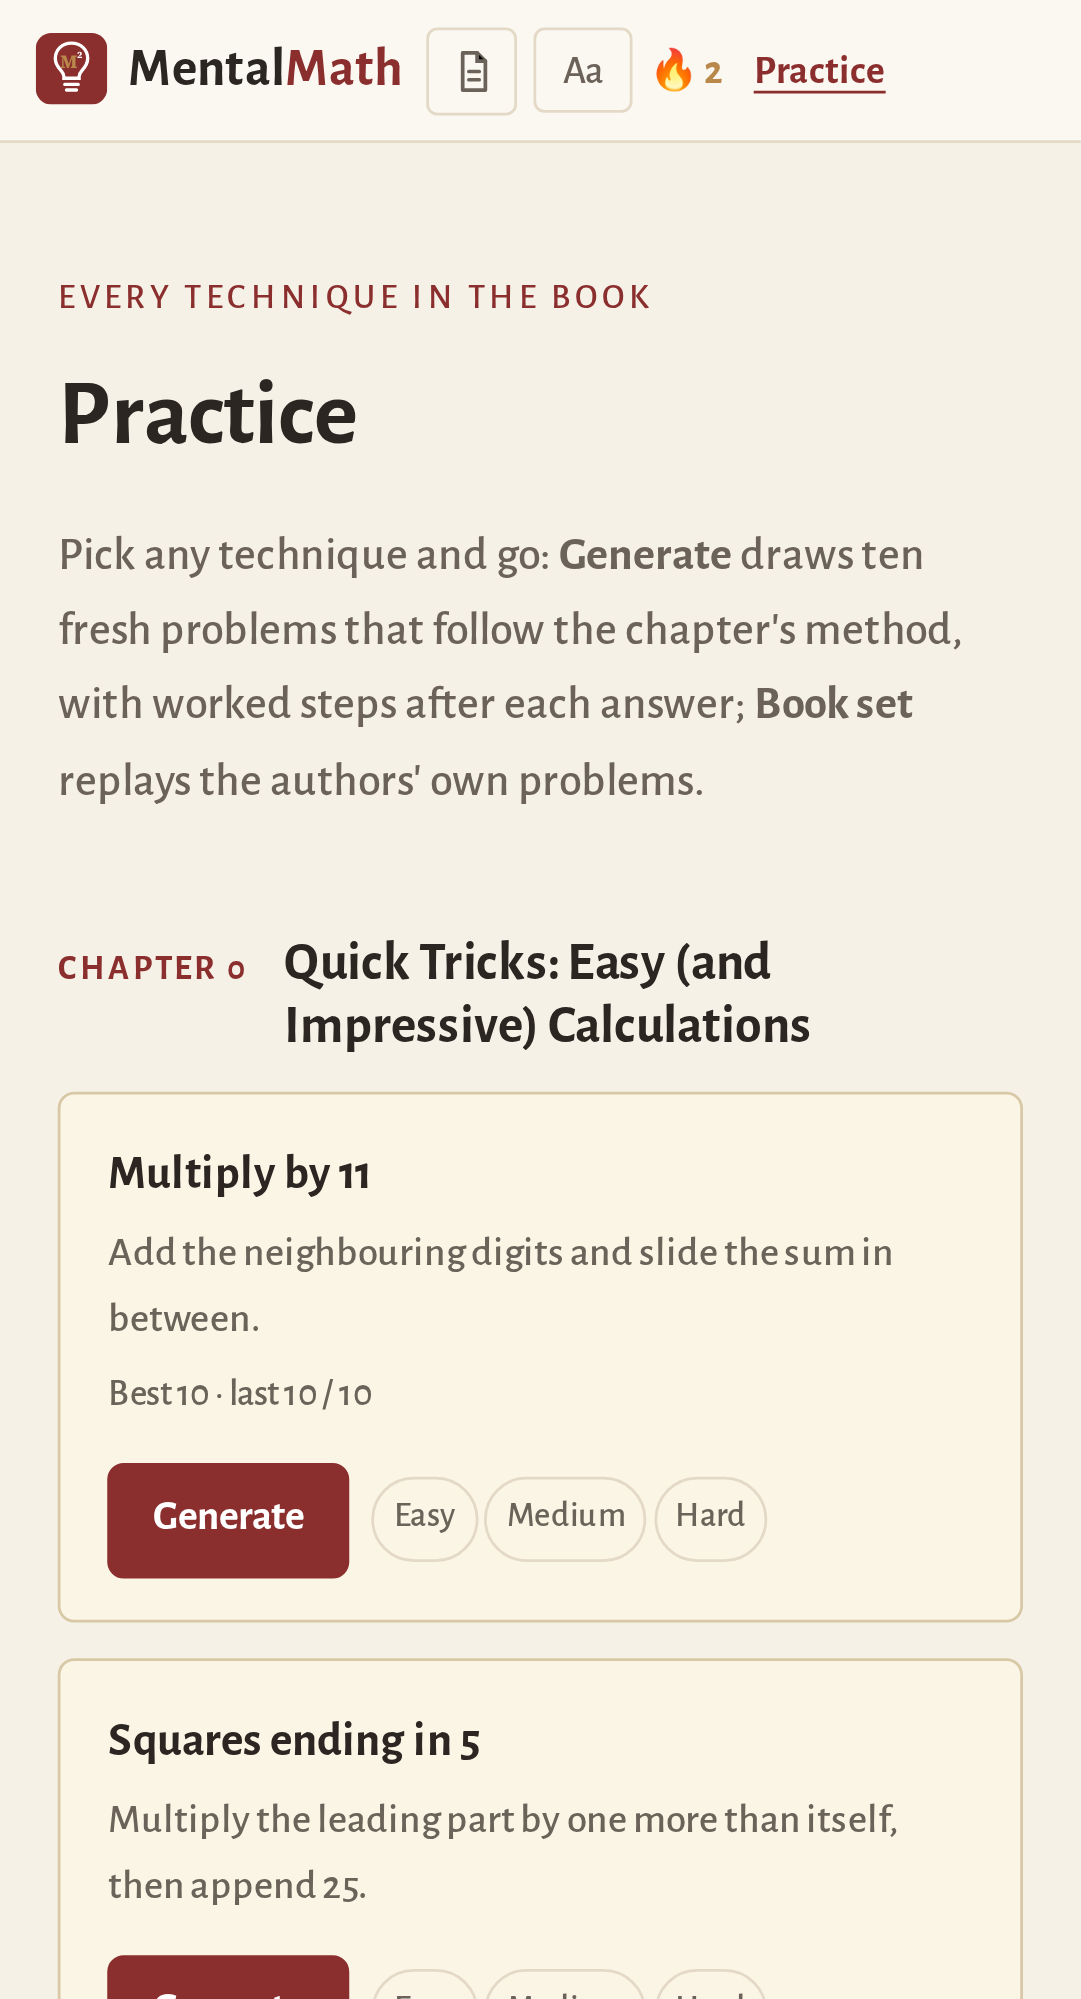
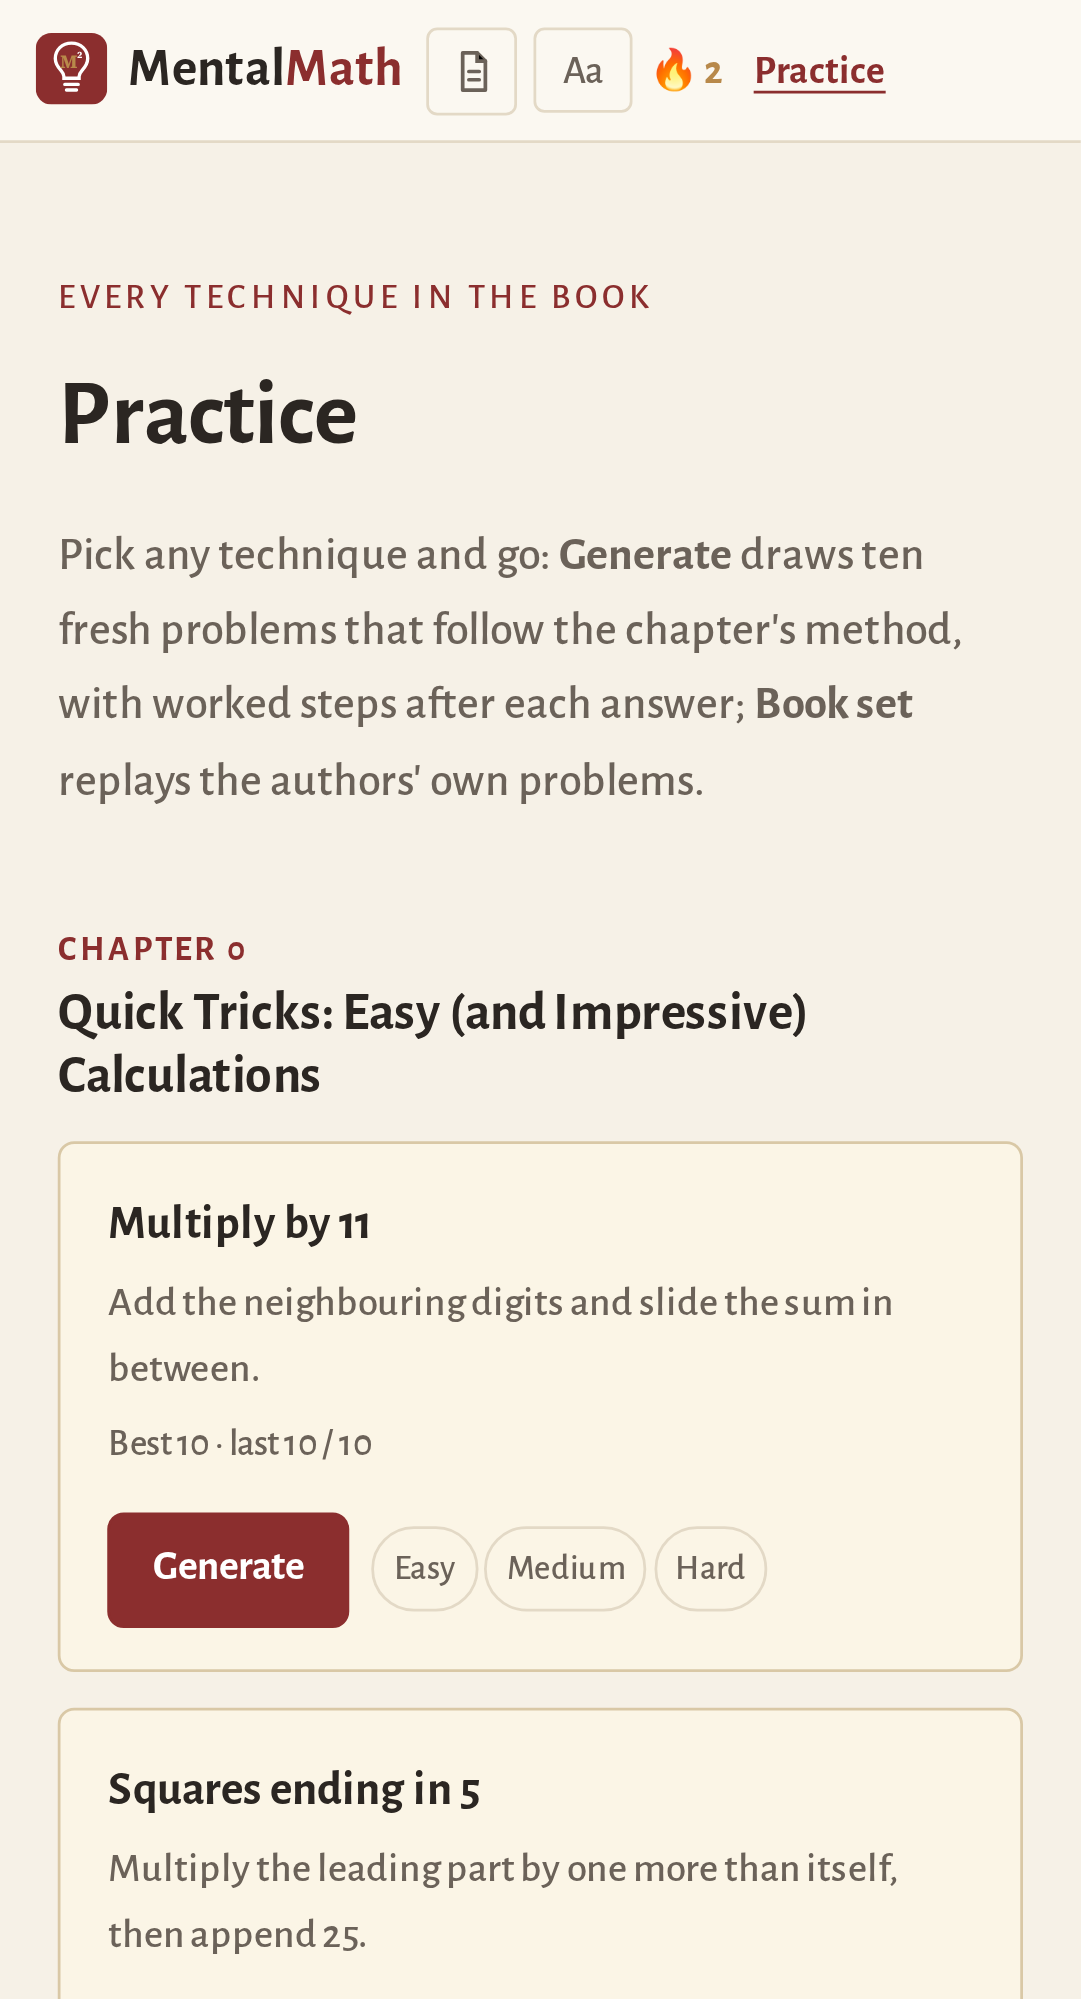
fix(practice): stack the chapter kicker and title on narrow screens

diff --git a/src/practice/PracticeHubView.vue b/src/practice/PracticeHubView.vue
@@ -246,4 +246,11 @@ function generateTo(t: Technique, difficulty: Difficulty | 'mixed' = 'mixed') {
   border-color: var(--accent);
   text-decoration: none;
 }
+@media (max-width: 719px) {
+  .chapter h2 {
+    flex-direction: column;
+    align-items: flex-start;
+    gap: 0.2rem;
+  }
+}
 </style>
